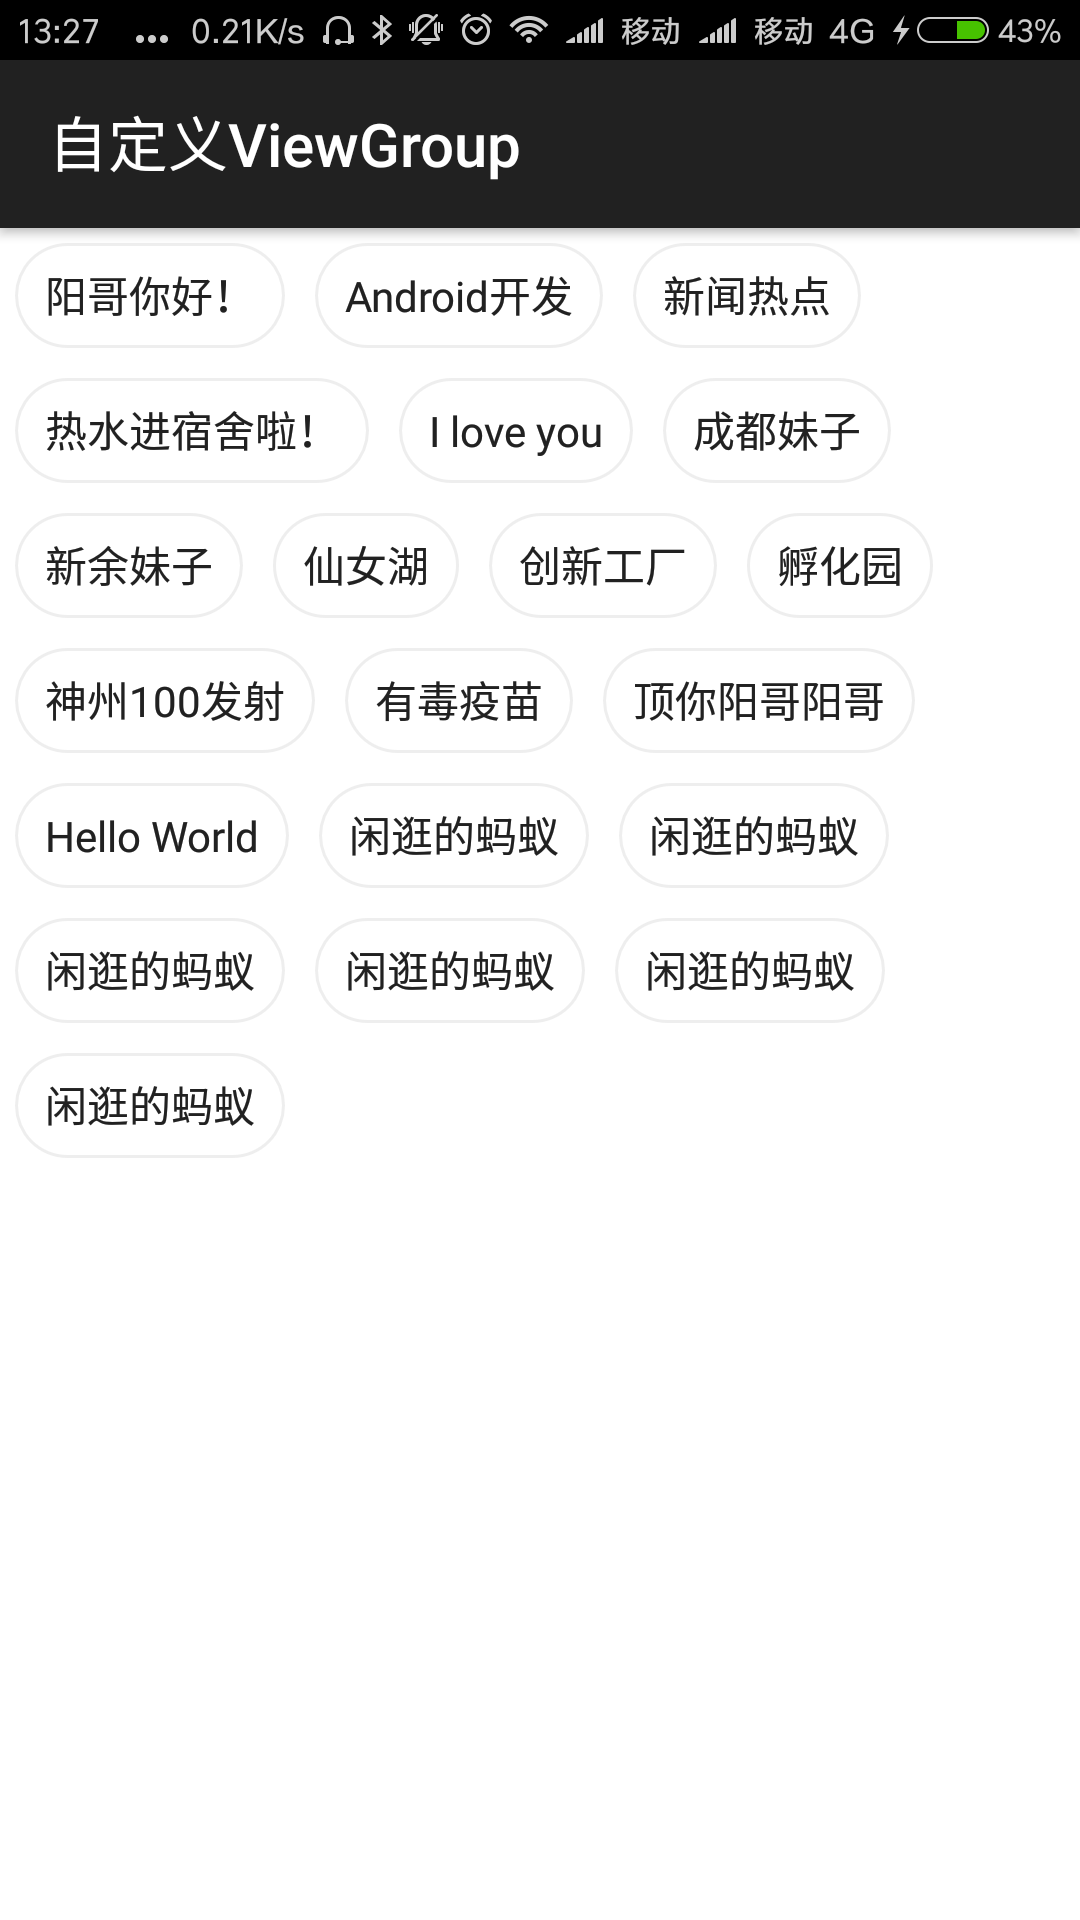
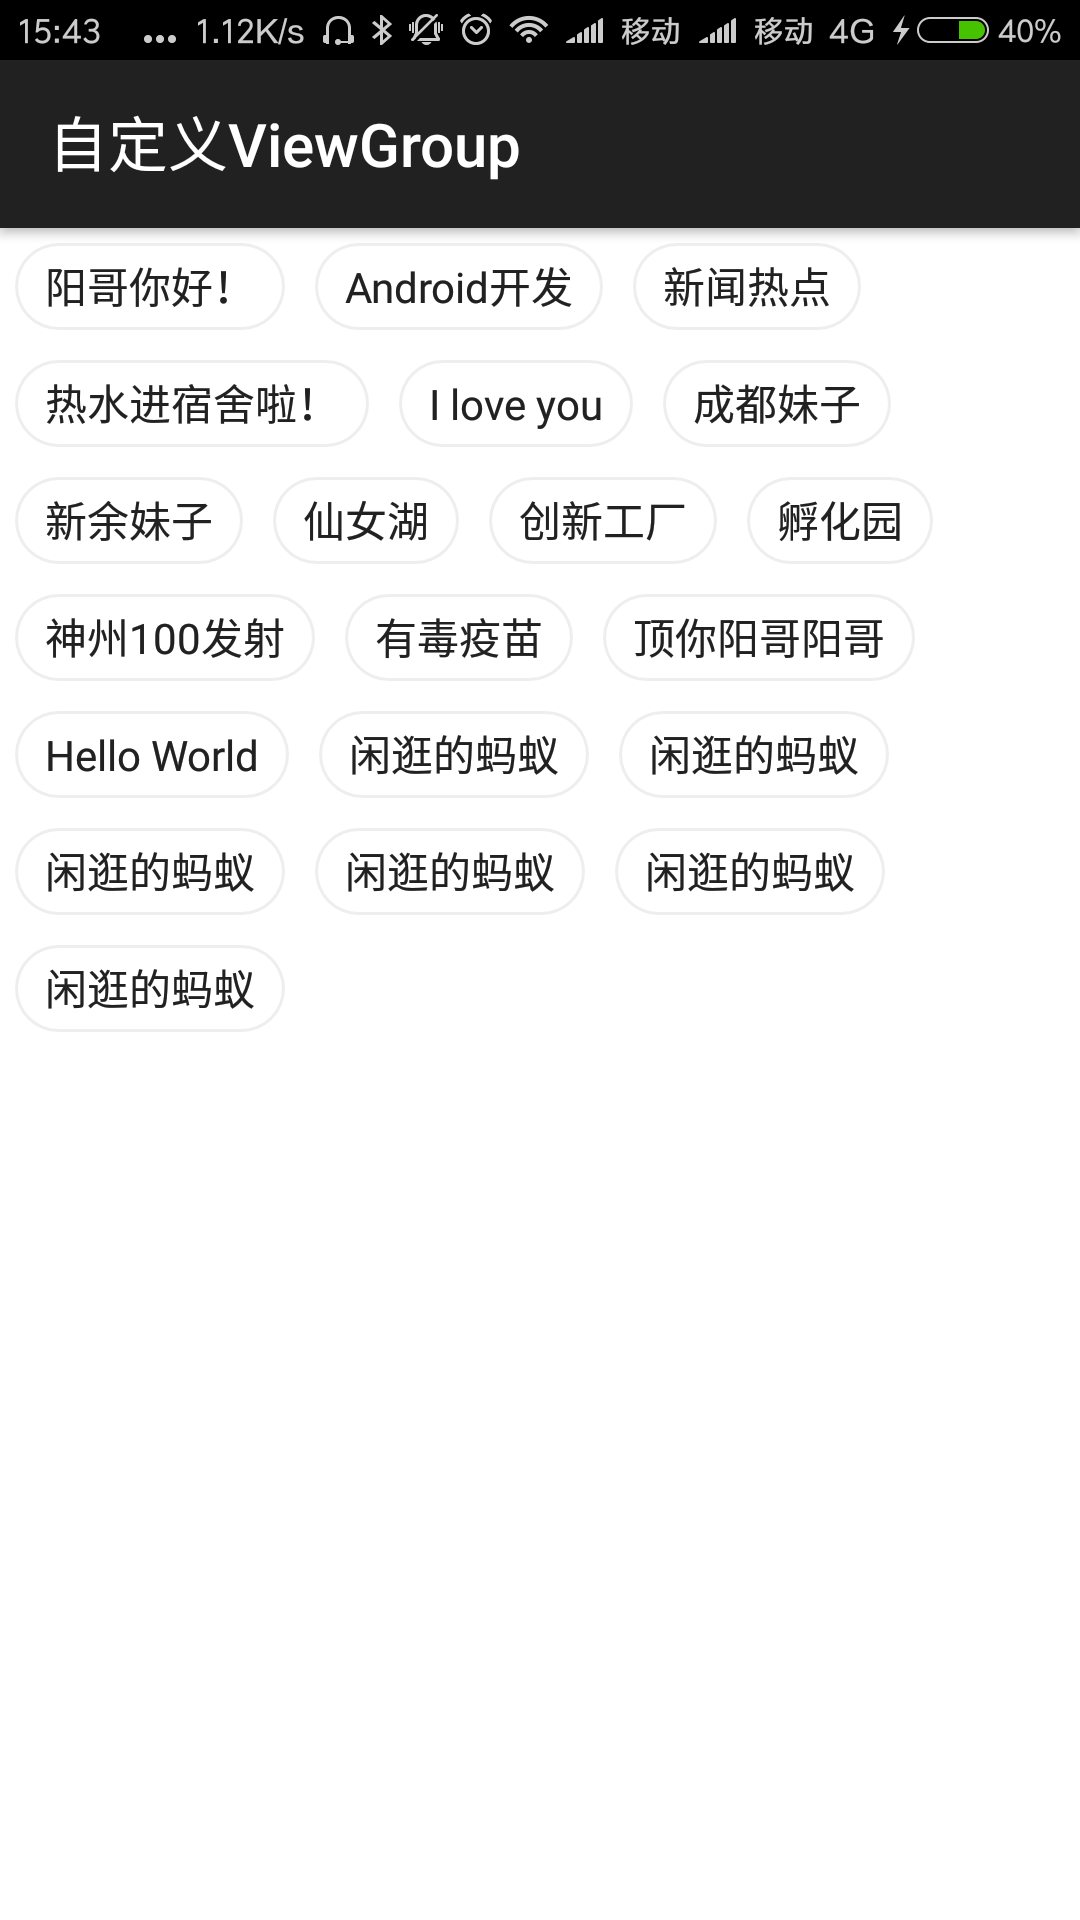
优化tag padding

diff --git a/app/src/main/java/com/scu/lly/customerviewgroup/view/DynamicTagFlowLayout.java b/app/src/main/java/com/scu/lly/customerviewgroup/view/DynamicTagFlowLayout.java
@@ -181,7 +181,7 @@ public class DynamicTagFlowLayout extends ViewGroup {
 				 * setPadding一定要在setBackgroundResource后面使用才有效！！！
 				 * http://stackoverflow.com/questions/18327498/setting-padding-for-textview-not-working
 				 */
-                tv.setPadding(dpToPxInt(10), dpToPxInt(8), dpToPxInt(10), dpToPxInt(8));
+                tv.setPadding(dpToPxInt(10), dpToPxInt(5), dpToPxInt(10), dpToPxInt(5));
                 tv.setTextColor(0xff212121);
 				
 				tv.setText(mTags.get(i));
